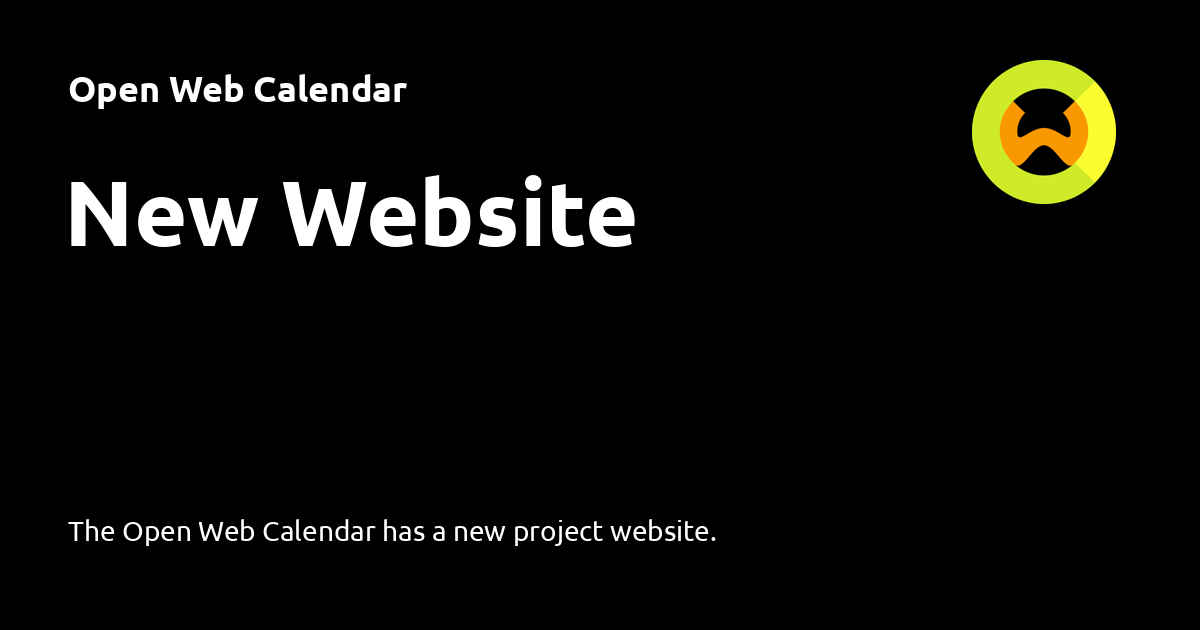
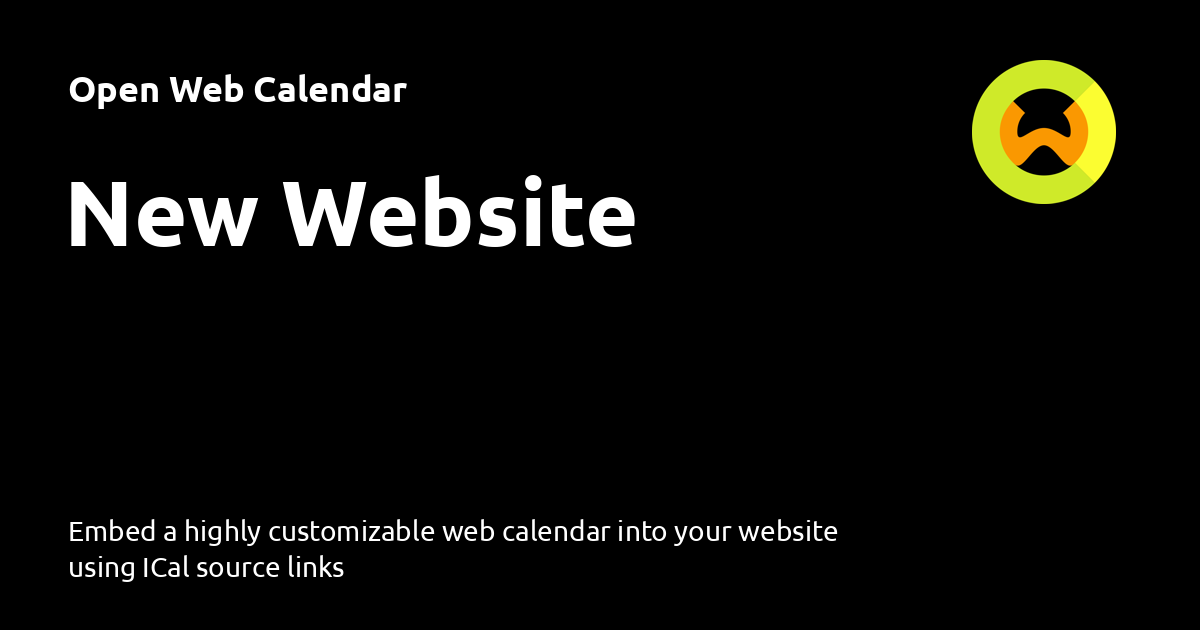
Deployed 5ca6b2c with MkDocs version: 1.5.3

Changed region(s): [[0.0617, 0.8143, 0.7092, 0.9349]]

diff --git a/blog/2024/04/10/new-website/index.html b/blog/2024/04/10/new-website/index.html
@@ -6,7 +6,9 @@
       <meta charset="utf-8">
       <meta name="viewport" content="width=device-width,initial-scale=1">
       
-        <meta name="description" content="The Open Web Calendar has a new project website.">
+        <meta name="description" content="As the Open Web Calendar is funded by NLNet,
+it was also suggested to setup a website that shows how to use the calendar,
+not only hosting the tool itself.">
       
       
       
@@ -62,7 +64,7 @@
       
         <meta  property="og:title"  content="New Website - Open Web Calendar" >
       
-        <meta  property="og:description"  content="The Open Web Calendar has a new project website." >
+        <meta  property="og:description"  content="Embed a highly customizable web calendar into your website using ICal source links" >
       
         <meta  property="og:image"  content="https://open-web-calendar.quelltext.eu/assets/images/social/blog/posts/website.png" >
       
@@ -78,7 +80,7 @@
       
         <meta  name="twitter:title"  content="New Website - Open Web Calendar" >
       
-        <meta  name="twitter:description"  content="The Open Web Calendar has a new project website." >
+        <meta  name="twitter:description"  content="Embed a highly customizable web calendar into your website using ICal source links" >
       
         <meta  name="twitter:image"  content="https://open-web-calendar.quelltext.eu/assets/images/social/blog/posts/website.png" >
       
@@ -764,7 +766,7 @@ not only hosting the tool itself.</p>
     <span class="md-icon" title="Last update">
       <svg xmlns="http://www.w3.org/2000/svg" viewBox="0 0 24 24"><path d="M21 13.1c-.1 0-.3.1-.4.2l-1 1 2.1 2.1 1-1c.2-.2.2-.6 0-.8l-1.3-1.3c-.1-.1-.2-.2-.4-.2m-1.9 1.8-6.1 6V23h2.1l6.1-6.1-2.1-2M12.5 7v5.2l4 2.4-1 1L11 13V7h1.5M11 21.9c-5.1-.5-9-4.8-9-9.9C2 6.5 6.5 2 12 2c5.3 0 9.6 4.1 10 9.3-.3-.1-.6-.2-1-.2s-.7.1-1 .2C19.6 7.2 16.2 4 12 4c-4.4 0-8 3.6-8 8 0 4.1 3.1 7.5 7.1 7.9l-.1.2v1.8Z"/></svg>
     </span>
-    <span class="git-revision-date-localized-plugin git-revision-date-localized-plugin-date">April 15, 2024</span>
+    <span class="git-revision-date-localized-plugin git-revision-date-localized-plugin-date">April 16, 2024</span>
   </span>
 
     
